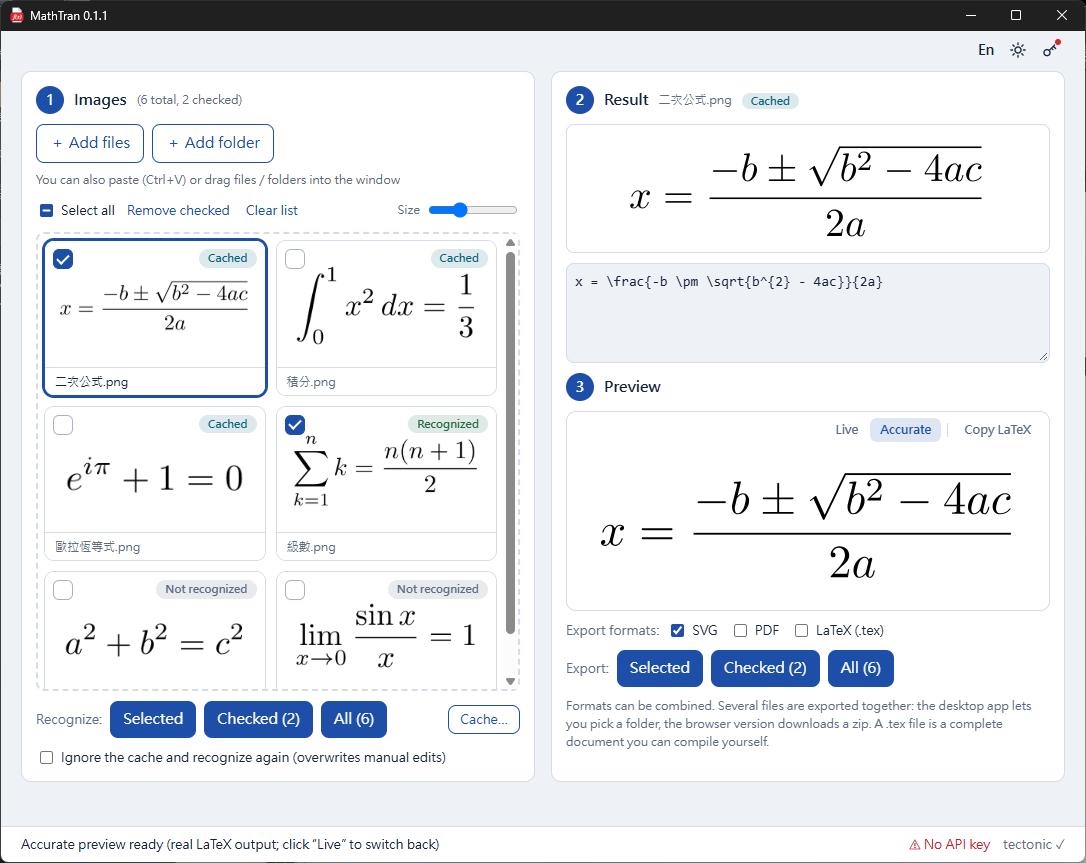
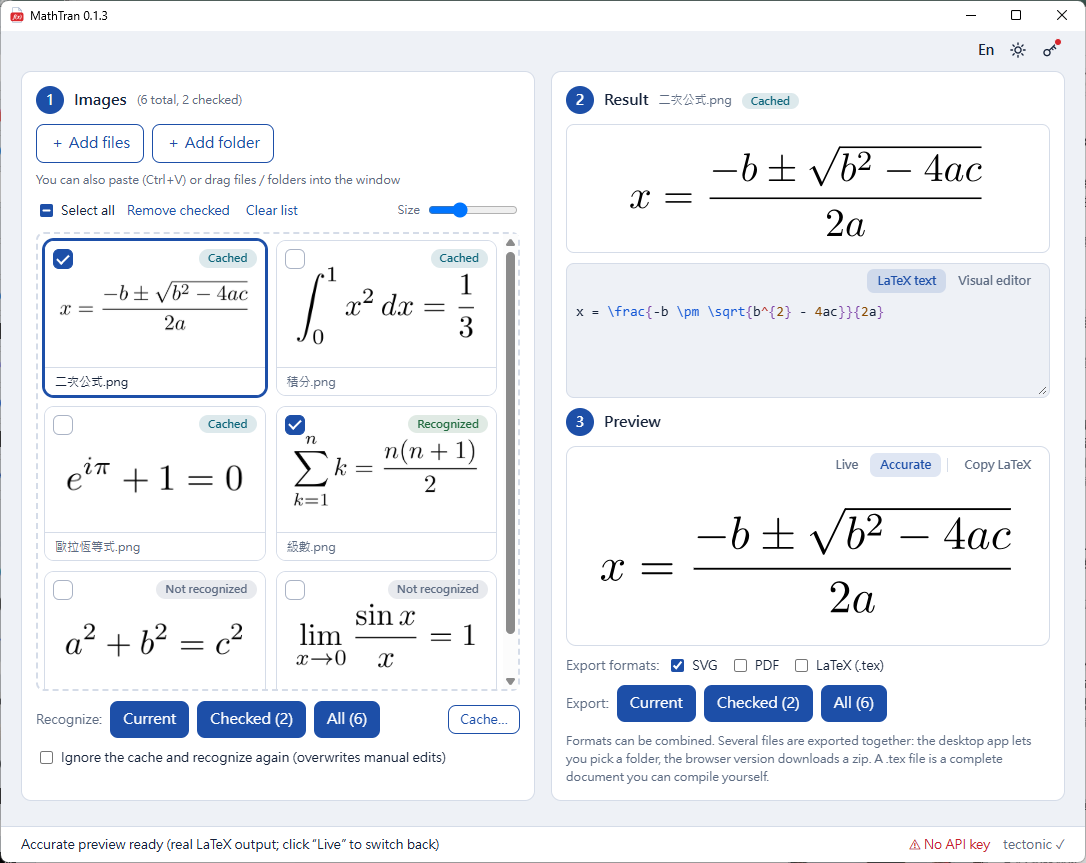
Release 0.1.4
- Rename the "Selected" scope button to "Current" (目前檢視) so it is not confused with "Checked"
- Update hints, confirmations, docs and screenshots

diff --git a/src/mathtran/web/index.html b/src/mathtran/web/index.html
@@ -265,12 +265,12 @@ const I18N = {
     add_hint: "也可貼上 (Ctrl+V) 或把檔案 / 資料夾拖進視窗",
     check_all: "全選", remove_checked: "移除勾選", clear_all: "清空", thumb: "縮圖",
     list_aria: "圖片清單", ocr_label: "辨識：", exp_label: "匯出：", fmt_label: "匯出格式：",
-    b_sel: "選取的", b_chk: "勾選的 ({n})", b_all: "全部 ({n})", stop: "停止",
+    b_sel: "目前檢視", b_chk: "勾選的 ({n})", b_all: "全部 ({n})", stop: "停止",
     cache_btn: "快取…", cache_btn_title: "查看或清除辨識快取",
     force: "忽略快取，強制重新辨識（會覆蓋手動修改）",
     orig_empty: "尚未選取圖片",
     latex_ph_none: "請先在左側選取一張圖片",
-    latex_ph_sel: "尚未辨識。按左下角「辨識：選取的」，或直接在此輸入 LaTeX",
+    latex_ph_sel: "尚未辨識。按左下角「辨識：目前檢視」，或直接在此輸入 LaTeX",
     ed_text: "LaTeX 文字", ed_text_title: "直接編輯 LaTeX 原始碼（有語法標色）",
     gfx: "圖形編輯", gfx_title: "用圖形化編輯器直接在公式上編輯（可用虛擬鍵盤插入分數、根號、積分…）", gfx_loading: "正在載入圖形編輯器…", gfx_fail: "圖形編輯器載入失敗",
     pv_live: "即時", pv_live_title: "即時預覽（KaTeX，離線）",
@@ -282,7 +282,7 @@ const I18N = {
     bd_run: "辨識中…", bd_queued: "等待中", bd_err: "失敗", bd_edit: "已修改", bd_cache: "已快取", bd_ok: "已辨識", bd_idle: "未辨識",
     ready: "就緒",
     h_key_ok: "API key ✓", h_key_bad: "⚠ 未設定 API key", h_tec_ok: "tectonic ✓", h_tec_bad: "⚠ 找不到 tectonic",
-    scope_sel: "選取的圖片", scope_chk: "勾選的圖片", scope_all: "目前所有圖片",
+    scope_sel: "目前檢視的圖片", scope_chk: "勾選的圖片", scope_all: "目前所有圖片",
     sep: "，", sep2: "、",
     m_no_images: "找不到可用的圖片（支援 PNG / JPEG / WebP / GIF）",
     m_reading: "讀取 {n} 張圖片…",
@@ -335,12 +335,12 @@ const I18N = {
     add_hint: "You can also paste (Ctrl+V) or drag files / folders into the window",
     check_all: "Select all", remove_checked: "Remove checked", clear_all: "Clear list", thumb: "Size",
     list_aria: "Image list", ocr_label: "Recognize:", exp_label: "Export:", fmt_label: "Export formats:",
-    b_sel: "Selected", b_chk: "Checked ({n})", b_all: "All ({n})", stop: "Stop",
+    b_sel: "Current", b_chk: "Checked ({n})", b_all: "All ({n})", stop: "Stop",
     cache_btn: "Cache…", cache_btn_title: "View or clear the recognition cache",
     force: "Ignore the cache and recognize again (overwrites manual edits)",
     orig_empty: "No image selected",
     latex_ph_none: "Select an image on the left first",
-    latex_ph_sel: "Not recognized yet. Click “Recognize: Selected” at the bottom left, or type LaTeX here",
+    latex_ph_sel: "Not recognized yet. Click “Recognize: Current” at the bottom left, or type LaTeX here",
     ed_text: "LaTeX text", ed_text_title: "Edit the LaTeX source directly (with syntax highlighting)",
     gfx: "Visual editor", gfx_title: "Edit right on the formula (a virtual keyboard inserts fractions, roots, integrals…)", gfx_loading: "Loading the visual editor…", gfx_fail: "Could not load the visual editor",
     pv_live: "Live", pv_live_title: "Live preview (KaTeX, works offline)",
@@ -352,7 +352,7 @@ const I18N = {
     bd_run: "Recognizing…", bd_queued: "Queued", bd_err: "Failed", bd_edit: "Edited", bd_cache: "Cached", bd_ok: "Recognized", bd_idle: "Not recognized",
     ready: "Ready",
     h_key_ok: "API key ✓", h_key_bad: "⚠ No API key", h_tec_ok: "tectonic ✓", h_tec_bad: "⚠ tectonic not found",
-    scope_sel: "Selected", scope_chk: "Checked", scope_all: "All",
+    scope_sel: "Current", scope_chk: "Checked", scope_all: "All",
     sep: ", ", sep2: ", ",
     m_no_images: "No usable images found (PNG / JPEG / WebP / GIF are supported)",
     m_reading: "Reading {n} images…", m_reading_one: "Reading 1 image…",

diff --git a/CHANGELOG.md b/CHANGELOG.md
@@ -5,6 +5,16 @@ Format follows [Keep a Changelog](https://keepachangelog.com/); versions follow 
 
 ## [Unreleased]
 
+## [0.1.4] - 2026-11-26
+
+### 繁體中文
+
+- 辨識與匯出的「選取的」按鈕改名為「**目前檢視**」（English：Current），避免和「勾選的」混淆；提示文字、確認訊息與文件一併更新
+
+### English
+
+- The "Selected" scope button for recognition and export is renamed "**Current**" (繁中：目前檢視) so it can't be confused with "Checked"; hints, confirmations and docs updated
+
 ## [0.1.3] - 2026-11-26
 
 ### 繁體中文
@@ -54,7 +64,7 @@ Format follows [Keep a Changelog](https://keepachangelog.com/); versions follow 
 ### 繁體中文
 
 - **多張圖片一次處理**：貼上、加入檔案、加入資料夾、拖曳都可以；內容相同的圖片自動略過
-- **辨識（Claude 視覺模型）**：可針對「選取的 / 勾選的 / 全部」辨識，批次時 3 張並行、可中途停止；圖上的**中文標題與說明文字**也會一併轉錄
+- **辨識（Claude 視覺模型）**：可針對「目前檢視 / 勾選的 / 全部」辨識，批次時 3 張並行、可中途停止；圖上的**中文標題與說明文字**也會一併轉錄
 - **辨識快取**：以圖片內容的 SHA-256 為鍵，辨識過的圖片不會重複呼叫 API；你手動修改的結果也會保留；介面內可查看與清除快取
 - **預覽**：即時預覽（KaTeX，離線）與精準預覽（真 LaTeX 編譯）可來回切換；太長的公式會自動縮小到完整可見
 - **匯出**：SVG / PDF / LaTeX（.tex）可複選；單張直接另存新檔，多個檔案則由你選資料夾（瀏覽器版下載 zip）
@@ -67,7 +77,7 @@ Format follows [Keep a Changelog](https://keepachangelog.com/); versions follow 
 ### English
 
 - **Work on many images at once**: paste, add files, add a folder, or drag and drop; identical images are skipped automatically
-- **Recognition (Claude vision model)** for the selected / checked / all images, 3 in parallel with a Stop button; **Chinese titles and notes in the image** are transcribed too
+- **Recognition (Claude vision model)** for the current / checked / all images, 3 in parallel with a Stop button; **Chinese titles and notes in the image** are transcribed too
 - **Recognition cache** keyed by the SHA-256 of the image, so nothing is recognized twice; your manual edits are kept; the cache can be viewed and cleared in the UI
 - **Preview**: switch back and forth between the live preview (KaTeX, offline) and the accurate preview (real LaTeX); long formulas shrink automatically so the whole formula stays visible
 - **Export**: SVG / PDF / LaTeX (.tex), multi-select; one file goes through "Save as", several files go to a folder you choose (a zip in the browser version)
@@ -77,6 +87,7 @@ Format follows [Keep a Changelog](https://keepachangelog.com/); versions follow 
 - **Three ways to use it**: desktop window, browser, command line (`mathtran ocr / render / convert / cache / config / serve / gui`)
 - **Installation**: Windows ZIP, macOS DMG (Tectonic included, nothing else to install), or `uv tool install mathtran`
 
+[0.1.4]: https://github.com/codemee/mathtran/releases/tag/v0.1.4
 [0.1.3]: https://github.com/codemee/mathtran/releases/tag/v0.1.3
 [0.1.2]: https://github.com/codemee/mathtran/releases/tag/v0.1.2
 [0.1.1]: https://github.com/codemee/mathtran/releases/tag/v0.1.1

diff --git a/docs/en/architecture.md b/docs/en/architecture.md
@@ -78,7 +78,7 @@ flowchart TD
 - **Two layers of protection**: the front end skips items that already have a result (no request at all), and even if a request is sent, the server's `recognize()` checks the cache first. So CLI, web and desktop share one cache.
 - **Manual edits are written back** (`PUT /api/cache/{hash}`, 500 ms debounce, flushed immediately before switching image / recognizing / exporting) and flagged `edited`. A forced re-recognition (`force`) overwrites it, after a `confirm()` in the UI.
 - **Clearing the cache**: the "Cache" dialog can clear everything, or only the images in the list (by hash). After clearing, the front end also zeroes the results of the listed items (`resetResults`) and cancels the pending "save manual edit" timers; otherwise a pending edit would write the just-cleared entry back. Clearing is refused while recognition / export runs (`S.busy`), so a finishing recognition can't write results back.
-- **Scopes** (selected / checked / all) only choose *which items* go through the same flow: only items without a result are recognized, unless "ignore cache" is ticked.
+- **Scopes** (current / checked / all) only choose *which items* go through the same flow: only items without a result are recognized, unless "ignore cache" is ticked.
 - **Failures**: an individual failure only marks that image; an error mentioning "API key" is treated as fatal and aborts the batch (so you don't get one failure per image).
 - **Prompt version (`ocr.PROMPT_VERSION`)**: every cache record carries the `prompt` version. It is bumped whenever the prompt changes; results from older versions that were not hand-edited count as stale (`cache.get/lookup(min_prompt=…)` don't return them) and are recognized again; `edited=True` entries are always valid; a manual edit never silently upgrades `prompt`. v1 transcribed only formulas and dropped Chinese text in the image; v2 asks for all text, as `\text{…}`.
 - **Batch export**: formats are multi-select (`formats`). Each item is compiled at most once (svg and pdf share the same PDF); `.tex` needs no compilation, so it is still written when compilation fails. The front end sends every item that has a result to `/api/export/batch`; the server compiles them one by one and zips them. The desktop app then lets the user pick a folder through `js_api.save_zip_to_folder` and extracts there (`extract_zip`: keeps only the file name to prevent path traversal, never overwrites existing files); the browser version just downloads the zip.

diff --git a/docs/zh-TW/architecture.md b/docs/zh-TW/architecture.md
@@ -78,7 +78,7 @@ flowchart TD
 - **兩層保護**：前端遇到「已有結果」的項目直接略過（不送請求）；即使送出，伺服器 `recognize()` 也會先查快取。所以 CLI、網頁、桌面共用同一份快取。
 - **手動修改會存回快取**（`PUT /api/cache/{hash}`，500 ms 防抖，切換圖片 / 辨識 / 匯出前會立即 flush），標記 `edited`。重新辨識（`force`）會覆蓋它，前端會先 `confirm()`。
 - **清除快取**：介面的「快取」對話框可清除全部，或只清除清單內圖片（以雜湊）。清除後前端也把清單內項目的結果歸零（`resetResults`），並取消尚未送出的「手動修改存回」計時器，否則待存的修改會把剛清掉的快取又寫回去。辨識 / 匯出進行中不允許清除（`S.busy`），避免辨識完成又寫回。
-- **辨識範圍**（選取 / 勾選 / 全部）只是「對哪些項目執行同一個流程」：沒有結果的才辨識，除非勾了「忽略快取」。
+- **辨識範圍**（目前檢視 / 勾選 / 全部）只是「對哪些項目執行同一個流程」：沒有結果的才辨識，除非勾了「忽略快取」。
 - **失敗處理**：個別失敗只標記該張；錯誤訊息含「API key」時視為致命，整批中止（避免每張都失敗一次）。
 - **提示詞版本（`ocr.PROMPT_VERSION`）**：快取每筆記錄 `prompt` 版本。提示詞改版時 +1，舊版本辨識且未被手動修改的結果視為過期（`cache.get/lookup(min_prompt=…)` 不回傳），會重新辨識；`edited=True` 的永遠有效；手動修改不會把 `prompt` 偷偷升級。v1 只轉錄公式、會漏掉圖上的中文，v2 要求連同所有文字以 `\text{…}` 轉錄。
 - **批次匯出**：格式可複選（`formats`）。每個項目最多編譯一次（svg 與 pdf 共用同一份 PDF）；`.tex` 不需編譯，所以即使編譯失敗仍會輸出。前端把所有有結果的項目送到 `/api/export/batch`，伺服器依序編譯、打包成 zip。桌面版再由 `js_api.save_zip_to_folder` 讓使用者選資料夾並解壓（`extract_zip`：只取檔名防路徑穿越、不覆蓋既有檔案）；瀏覽器版直接下載 zip。

diff --git a/README.md b/README.md
@@ -13,10 +13,10 @@
 | 步驟 | 說明 |
 |---|---|
 | ① 加入圖片 | **一次處理多張**：貼上（Ctrl+V）、拖曳檔案或整個資料夾、按「加入檔案」「加入資料夾」，隨時可再加；重複的圖片自動略過。支援 PNG / JPEG / WebP / GIF |
-| ② 辨識為 LaTeX | 用 Claude 視覺模型轉成 LaTeX；可只辨識**選取的**、**勾選的**或**全部**。辨識過的圖片有**快取**，不會重複呼叫 |
+| ② 辨識為 LaTeX | 用 Claude 視覺模型轉成 LaTeX；可只辨識**目前檢視的**、**勾選的**或**全部**。辨識過的圖片有**快取**，不會重複呼叫 |
 | ③ 檢視與修改 | 在左邊點選圖片，右邊就顯示它的 LaTeX，可直接修改（修改也會存進快取） |
 | ④ 預覽 | 邊打邊看的「即時」預覽（離線可用），也可切到真正 LaTeX 編譯的「精準」預覽；太長的公式會自動縮小到**完整可見** |
-| ⑤ 匯出 | 匯出 **SVG**（文字已轉外框）、**PDF**、**LaTeX (.tex)**，**格式可複選**；同樣可選**選取的**、**勾選的**或**全部** |
+| ⑤ 匯出 | 匯出 **SVG**（文字已轉外框）、**PDF**、**LaTeX (.tex)**，**格式可複選**；同樣可選**目前檢視的**、**勾選的**或**全部** |
 
 三種使用方式，共用同一套核心：
 
@@ -191,7 +191,7 @@
 | 標示 | 意義 |
 |---|---|
 | ☑ 左上角勾選框 | 勾選後可做「勾選的」批次辨識 / 匯出 |
-| 藍框 | 目前選取的圖片，右邊顯示的就是它 |
+| 藍框 | 目前檢視的圖片，右邊顯示的就是它 |
 | 未辨識 | 還沒有 LaTeX |
 | 已辨識 | 剛剛辨識完成 |
 | 已快取 | 先前辨識過，直接從快取帶出，沒有呼叫 API |
@@ -206,7 +206,7 @@
 
 | 按鈕 | 對象 |
 |---|---|
-| 選取的 | 目前點選（藍框）的那一張 |
+| 目前檢視 | 目前點選（藍框）、右邊正在顯示的那一張（不是打勾的） |
 | 勾選的 (n) | 已打勾的圖片 |
 | 全部 (n) | 清單內所有圖片 |
 

diff --git a/README.en.md b/README.en.md
@@ -13,10 +13,10 @@
 | Step | Description |
 |---|---|
 | ① Add images | **Work on many at once**: paste (Ctrl+V), drag in files or a whole folder, or use "Add files" / "Add folder" — at any time. Duplicates are skipped automatically. PNG / JPEG / WebP / GIF |
-| ② Recognize as LaTeX | A Claude vision model turns each image into LaTeX; recognize just the **selected** one, the **checked** ones, or **all**. Results are **cached**, so nothing is recognized twice |
+| ② Recognize as LaTeX | A Claude vision model turns each image into LaTeX; recognize just the **current** one (the one shown on the right), the **checked** ones, or **all**. Results are **cached**, so nothing is recognized twice |
 | ③ View and edit | Click an image on the left and its LaTeX appears on the right, ready to edit (edits are cached too) |
 | ④ Preview | Instant "live" preview (works offline), switchable to an "accurate" preview compiled with real LaTeX; formulas that are too long shrink automatically so the **whole formula stays visible** |
-| ⑤ Export | Export **SVG** (text converted to outlines), **PDF** and **LaTeX (.tex)** — **formats are multi-select** — again for the **selected**, **checked** or **all** images |
+| ⑤ Export | Export **SVG** (text converted to outlines), **PDF** and **LaTeX (.tex)** — **formats are multi-select** — again for the **current**, **checked** or **all** images |
 
 Three ways to use it, all sharing one core:
 
@@ -208,7 +208,7 @@ Use the slider above the list to change thumbnail size. Keyboard: arrow keys mov
 
 | Button | Applies to |
 |---|---|
-| 選取的 (Selected) | The one image currently selected (blue outline) |
+| 目前檢視 (Current) | The one image shown on the right (blue outline), not the ticked ones |
 | 勾選的 (n) (Checked) | Images with a tick |
 | 全部 (n) (All) | Every image in the list |
 
